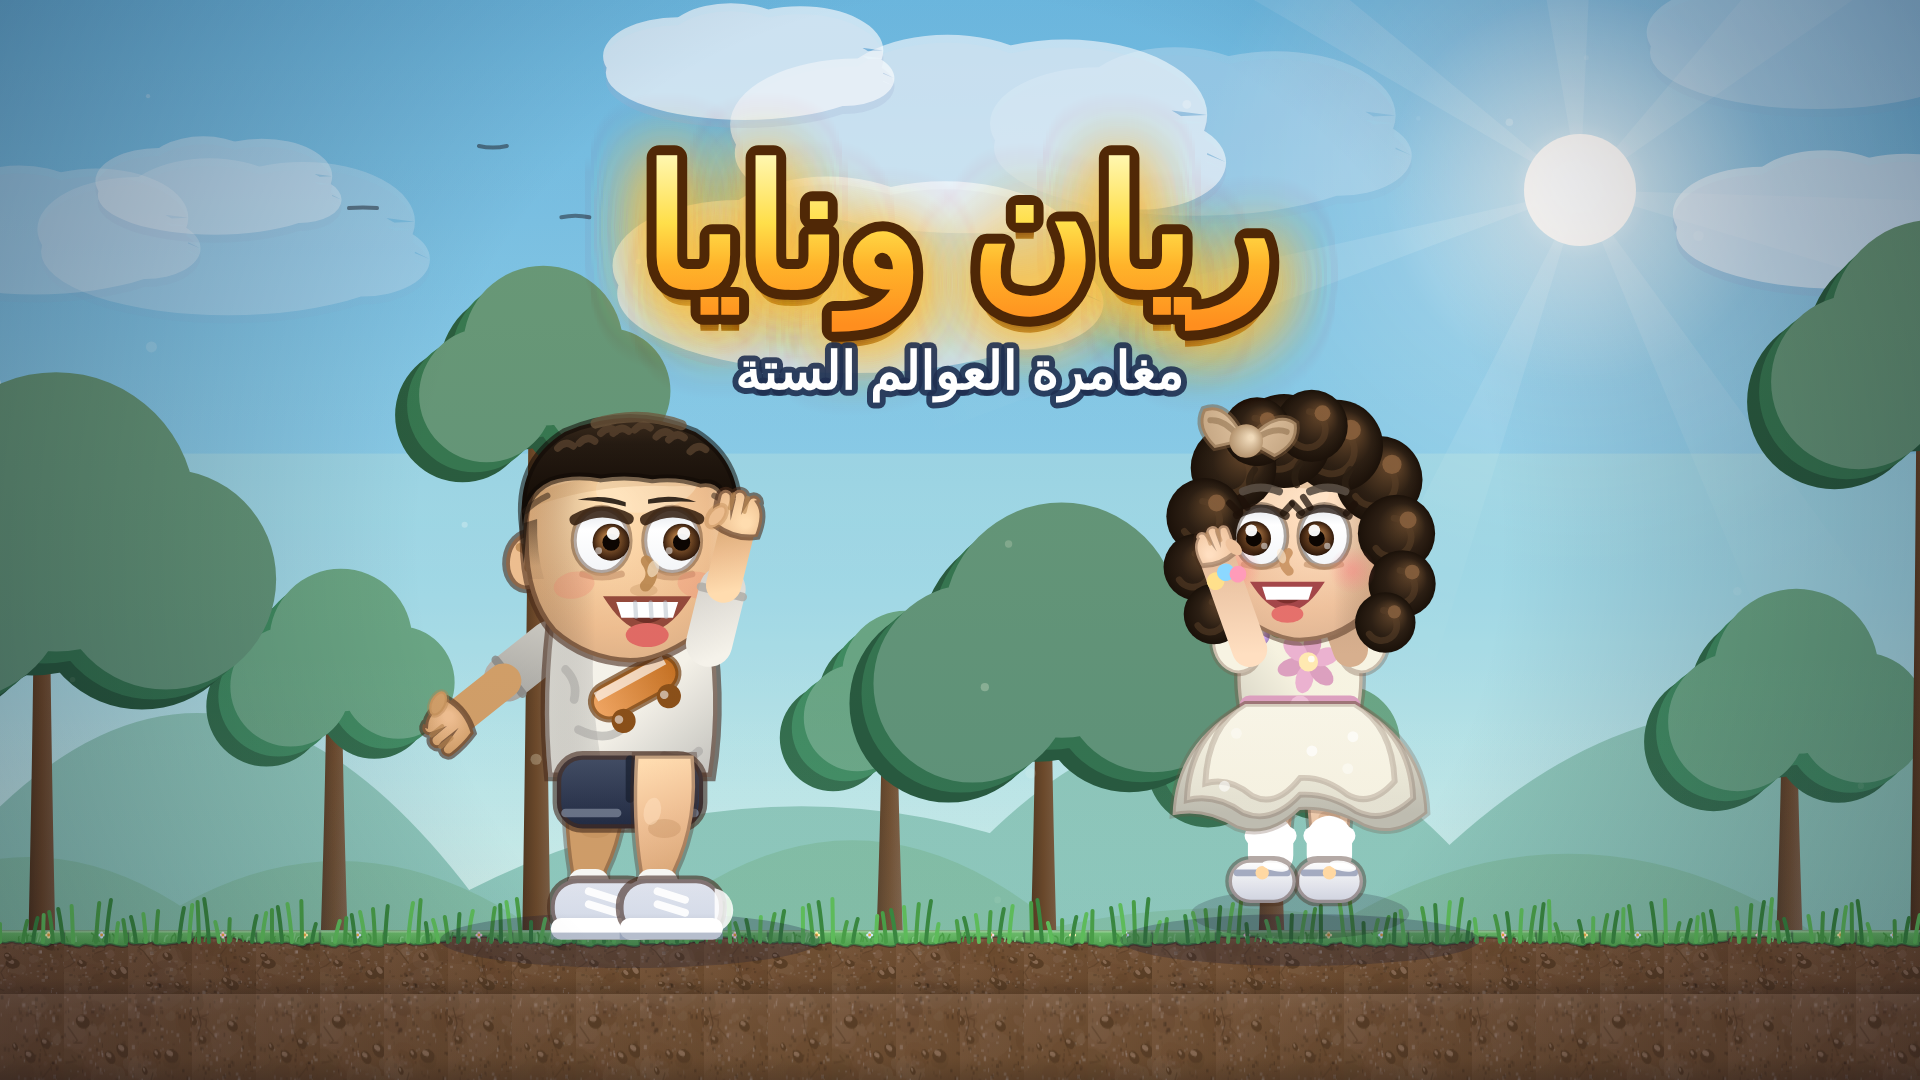
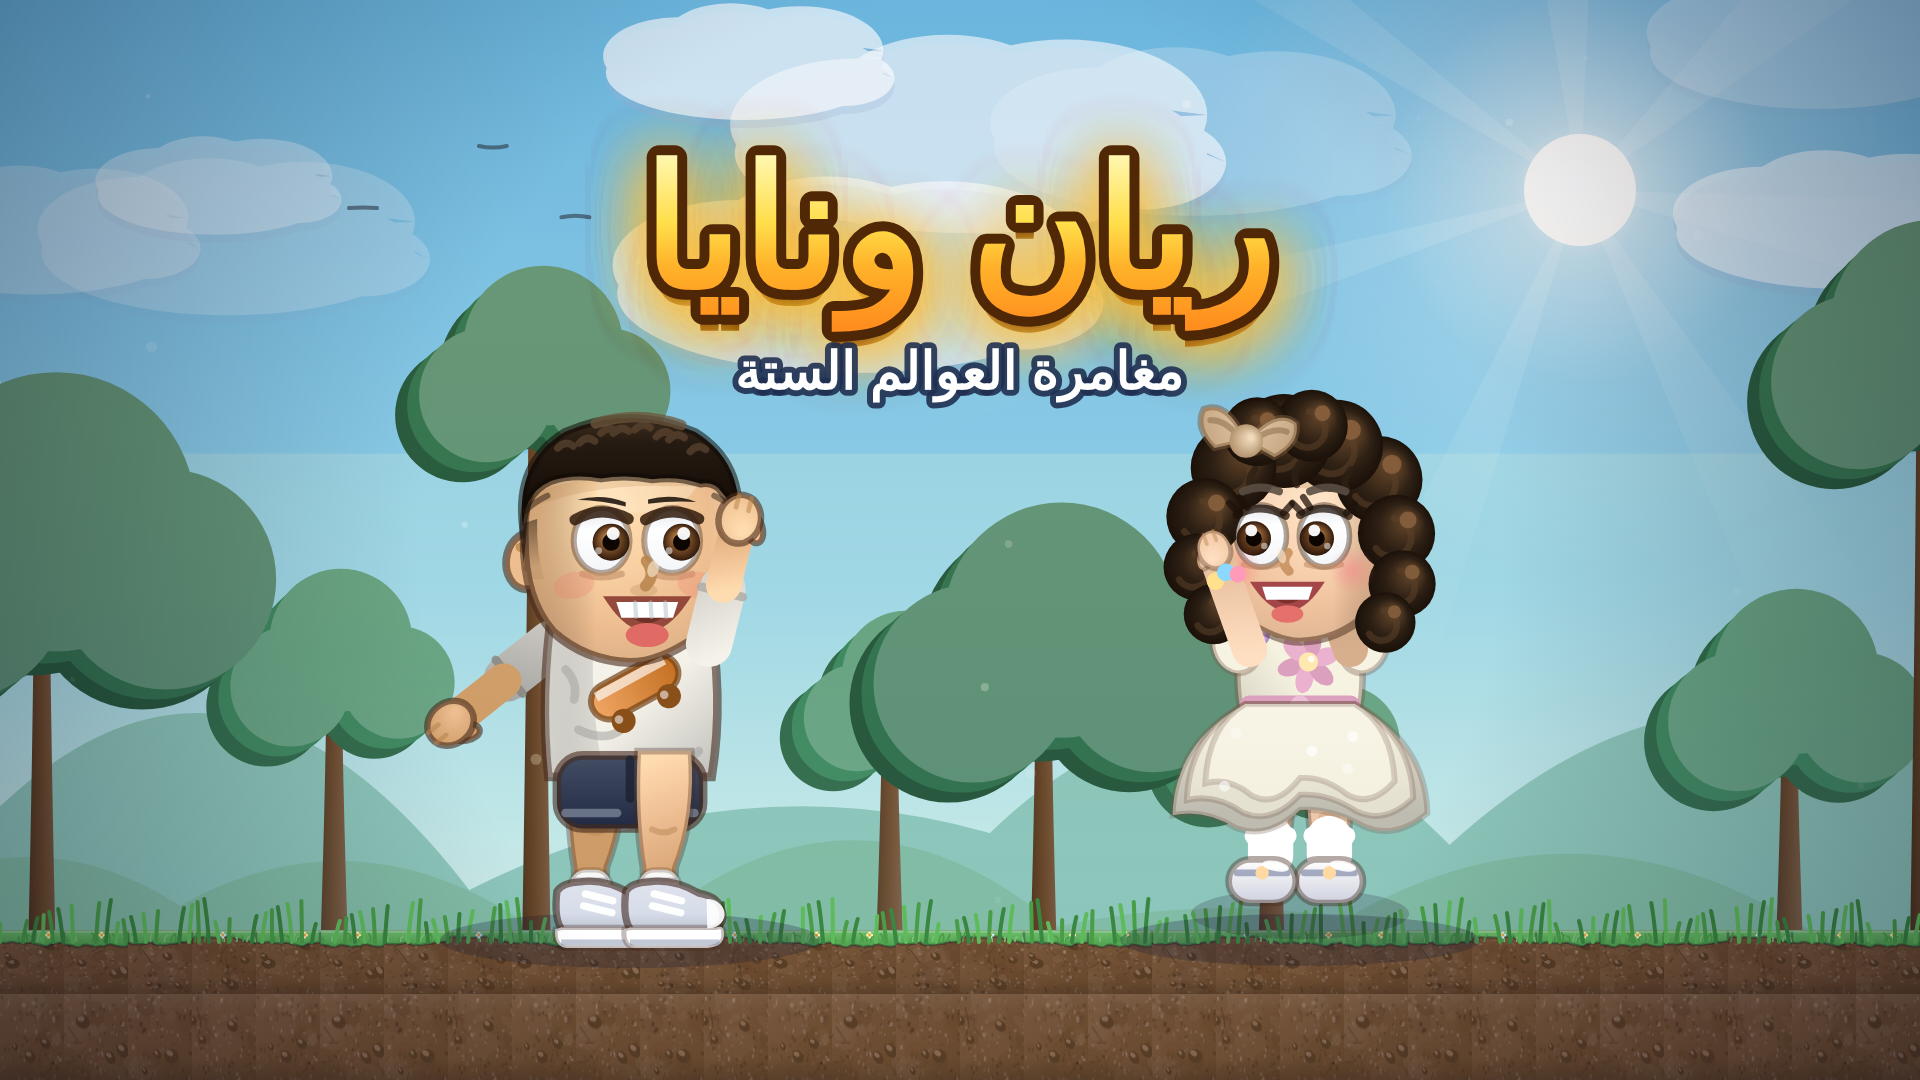
Hands and legs redesign v3: clean cartoon anatomy
- Hands: rounded mitt palms with integrated thumbs (toward the body)
  and two subtle finger creases, replacing the notched claw-like
  silhouettes; smaller and properly proportioned (both characters)
- Legs: smooth thigh-to-ankle capsule curves with a thin knee crease
  (removed the blotchy knee highlight), ankle flows into a wrapped
  sock cuff with fold line
- Sneakers rebuilt as a single sculpted silhouette: heel, rounded
  rubber toe, tongue, stitched double sole and laces, aligned to the
  ankle joint
- Naya: shaped legs and small mitt hands with matched skin gradients

Claude-Session: https://claude.ai/code/session_01WV3PCMXxFaSr6jYfzUPyqs

diff --git a/js/game/characters.js b/js/game/characters.js
@@ -234,51 +234,75 @@ window.RN = window.RN || {};
     ctx.save();
     ctx.translate(ox, oy);
     ctx.rotate(ang * 0.6);
-    const ax = ang > 0 ? 2.6 : -0.8; // موضع الكاحل
-    // ساق مدببة: فخذ أعرض ينحدر لكاحل أنحف مع بطة خفيفة
-    ctx.fillStyle = front ? skinGrad(ctx, -3, 0, 3, 16) : SKIN_SHADE;
+    const ax = ang > 0 ? 2.2 : -0.6; // موضع الكاحل
+    // ساق انسيابية: فخذ أعرض ينساب لكاحل أنحف (بلا زوايا)
+    ctx.fillStyle = front ? skinGrad(ctx, -3, 0, 3, 15) : SKIN_SHADE;
     ctx.beginPath();
-    ctx.moveTo(-3.4, -1);
-    ctx.quadraticCurveTo(-3.9, 6.5, ax - 2.1, 12.5);
-    ctx.lineTo(ax - 2.1, 15.5);
-    ctx.lineTo(ax + 2.1, 15.5);
-    ctx.lineTo(ax + 2.1, 12.5);
-    ctx.quadraticCurveTo(4.2, 6.5, 3.4, -1);
+    ctx.moveTo(-3.1, -1.5);
+    ctx.quadraticCurveTo(-3.5, 6, ax - 1.9, 12);
+    ctx.quadraticCurveTo(ax - 2.0, 14.6, ax, 14.8);
+    ctx.quadraticCurveTo(ax + 2.0, 14.6, ax + 1.9, 12);
+    ctx.quadraticCurveTo(3.7, 6, 3.1, -1.5);
     ctx.closePath();
     ctx.fill();
-    ctx.strokeStyle = 'rgba(74,44,26,0.35)'; ctx.lineWidth = 0.8;
+    ctx.strokeStyle = 'rgba(74,44,26,0.32)'; ctx.lineWidth = 0.8;
     ctx.stroke();
-    // ركبة (لمسة ظل + لمعة)
-    ctx.fillStyle = U.alpha(SKIN_DEEP, 0.28);
-    ctx.beginPath(); ctx.ellipse((ax) * 0.5 + 0.4, 7.5, 1.9, 1.1, 0, 0, 7); ctx.fill();
-    ctx.fillStyle = 'rgba(255,225,190,0.5)';
-    ctx.beginPath(); ctx.ellipse((ax) * 0.5 - 1, 5.5, 1, 1.6, 0.2, 0, 7); ctx.fill();
-    // جورب قصير بحافة مطوية
-    ctx.fillStyle = '#f6f6f2';
-    U.roundRect(ctx, ax - 2.4, 12.2, 4.8, 3.6, 1.6); ctx.fill();
-    ctx.fillStyle = '#e2e2da';
-    ctx.fillRect(ax - 2.4, 13.4, 4.8, 0.9);
-    // حذاء رياضي
+    // ثنية الركبة: خط رقيق فقط
+    ctx.strokeStyle = U.alpha(SKIN_DEEP, 0.45); ctx.lineWidth = 0.7;
+    ctx.beginPath();
+    ctx.moveTo(ax * 0.4 - 1.2, 7.6);
+    ctx.quadraticCurveTo(ax * 0.4 + 0.2, 8.3, ax * 0.4 + 1.4, 7.6);
+    ctx.stroke();
+    // جورب قصير يلتف حول الكاحل ويلتقي بالحذاء
+    ctx.fillStyle = '#f8f8f4';
+    U.roundRect(ctx, ax - 2.35, 12.3, 4.7, 3.6, 1.9); ctx.fill();
+    ctx.strokeStyle = 'rgba(74,44,26,0.22)'; ctx.lineWidth = 0.6;
+    U.roundRect(ctx, ax - 2.35, 12.3, 4.7, 3.6, 1.9); ctx.stroke();
+    ctx.strokeStyle = 'rgba(150,150,160,0.55)'; ctx.lineWidth = 0.6;
+    ctx.beginPath(); ctx.moveTo(ax - 1.8, 13.5); ctx.lineTo(ax + 1.8, 13.5); ctx.stroke();
+    // حذاء رياضي (يلتقم الكاحل)
     ctx.save();
-    ctx.translate(ang > 0 ? 3 : -1, 17);
+    ctx.translate(ax, 17);
     const shg = ctx.createLinearGradient(0, -3.5, 0, 3);
     shg.addColorStop(0, U.shade(o.shoes, 0.22));
     shg.addColorStop(0.6, o.shoes);
     shg.addColorStop(1, U.shade(o.shoes, -0.15));
     ctx.fillStyle = shg;
-    U.roundRect(ctx, -4.2, -3.6, 12, 6.6, 3.1); ctx.fill();
-    ctx.strokeStyle = LINE; ctx.lineWidth = 0.9;
-    U.roundRect(ctx, -4.2, -3.6, 12, 6.6, 3.1); ctx.stroke();
-    // نعل مزدوج
+    ctx.beginPath();
+    ctx.moveTo(-3.9, -2.2);
+    ctx.quadraticCurveTo(-4.3, 1.2, -3.2, 2.4);   // كعب
+    ctx.lineTo(5.2, 2.4);
+    ctx.quadraticCurveTo(7.6, 2.2, 7.4, 0.4);     // مقدمة مستديرة
+    ctx.quadraticCurveTo(7.1, -1.6, 4.6, -2.0);
+    ctx.quadraticCurveTo(1.6, -3.7, -1.2, -3.3);  // لسان الحذاء
+    ctx.quadraticCurveTo(-3.3, -3.2, -3.9, -2.2);
+    ctx.closePath();
+    ctx.fill();
+    ctx.strokeStyle = LINE; ctx.lineWidth = 0.85;
+    ctx.stroke();
+    // نعل أبيض مزدوج
     ctx.fillStyle = '#ffffff';
-    U.roundRect(ctx, -4.2, 0.9, 12, 2.5, 1.2); ctx.fill();
-    ctx.fillStyle = 'rgba(140,150,170,0.6)';
-    ctx.fillRect(-4.2, 2.6, 12, 0.8);
+    ctx.beginPath();
+    ctx.moveTo(-4.1, 2.2);
+    ctx.quadraticCurveTo(-4.3, 4.3, -2.6, 4.4);
+    ctx.lineTo(5.6, 4.4);
+    ctx.quadraticCurveTo(7.8, 4.2, 7.5, 2.4);
+    ctx.quadraticCurveTo(7.4, 1.7, 6.6, 2.0);
+    ctx.lineTo(-3.4, 2.0);
+    ctx.closePath();
+    ctx.fill();
+    ctx.strokeStyle = 'rgba(74,44,26,0.3)'; ctx.lineWidth = 0.6;
+    ctx.stroke();
+    ctx.fillStyle = 'rgba(140,150,170,0.5)';
+    ctx.fillRect(-3.4, 3.4, 10.4, 0.7);
     // مقدمة مطاطية + أربطة
-    ctx.fillStyle = 'rgba(255,255,255,0.85)';
-    ctx.beginPath(); ctx.arc(6.4, 0, 2.6, -1.4, 1.4); ctx.fill();
-    ctx.strokeStyle = 'rgba(255,255,255,0.9)'; ctx.lineWidth = 0.9;
-    ctx.beginPath(); ctx.moveTo(0.2, -2.2); ctx.lineTo(3.4, -1.2); ctx.moveTo(0.2, -0.7); ctx.lineTo(3.4, 0.3); ctx.stroke();
+    ctx.fillStyle = 'rgba(255,255,255,0.9)';
+    ctx.beginPath(); ctx.ellipse(5.7, 0.4, 1.9, 1.7, 0.15, -1.8, 1.5); ctx.fill();
+    ctx.strokeStyle = 'rgba(255,255,255,0.95)'; ctx.lineWidth = 0.85;
+    ctx.beginPath();
+    ctx.moveTo(-0.6, -1.9); ctx.lineTo(2.6, -1.1);
+    ctx.moveTo(-0.8, -0.5); ctx.lineTo(2.5, 0.3);
+    ctx.stroke();
     ctx.restore();
     ctx.restore();
   }
@@ -300,36 +324,30 @@ window.RN = window.RN || {};
     // ساعد ويد
     ctx.strokeStyle = front ? skinGrad(ctx, -2, 7, 2, 16) : SKIN_SHADE;
     ctx.lineWidth = 4.1; ctx.beginPath(); ctx.moveTo(0, 7); ctx.lineTo(0, 13.6); ctx.stroke();
-    // كف بأصابع (قبضة شبه مفتوحة)
-    const hg = ctx.createRadialGradient(-0.8, 14.6, 0.5, 0, 15.3, 3.2);
+    // كف كرتونية نظيفة: قفاز بيضاوي بإبهام مدمج وخطي أصابع
+    ctx.save();
+    ctx.translate(0, 14.4);
+    const thx = front ? -1.9 : 1.9; // الإبهام نحو الجسم
+    const hg = ctx.createRadialGradient(-0.7, -0.8, 0.4, 0, 0.3, 3.4);
     hg.addColorStop(0, front ? SKIN_HI : SKIN);
     hg.addColorStop(1, front ? SKIN : SKIN_SHADE);
+    // الإبهام أولًا (يندمج تحت الكف)
     ctx.fillStyle = hg;
-    // راحة اليد
-    ctx.beginPath();
-    ctx.moveTo(-2.5, 13.4);
-    ctx.quadraticCurveTo(-2.9, 16.2, -1.7, 17.3);
-    // ثلاثة أصابع (نتوءات) عند الأسفل
-    ctx.arc(-1.1, 17.15, 0.85, Math.PI * 0.9, Math.PI * 0.1, true);
-    ctx.arc(0.6, 17.35, 0.9, Math.PI * 0.95, Math.PI * 0.05, true);
-    ctx.arc(2.2, 17.0, 0.85, Math.PI, 0, true);
-    ctx.quadraticCurveTo(3.1, 15.3, 2.6, 13.5);
-    ctx.quadraticCurveTo(0, 12.4, -2.5, 13.4);
-    ctx.closePath();
-    ctx.fill();
+    ctx.beginPath(); ctx.ellipse(thx, -0.2, 1.0, 1.7, front ? -0.5 : 0.5, 0, 7); ctx.fill();
     ctx.strokeStyle = LINE; ctx.lineWidth = 0.7;
-    ctx.stroke();
-    // فواصل الأصابع
-    ctx.strokeStyle = U.alpha(SKIN_DEEP, 0.6); ctx.lineWidth = 0.55;
+    ctx.beginPath(); ctx.ellipse(thx, -0.2, 1.0, 1.7, front ? -0.5 : 0.5, 0, 7); ctx.stroke();
+    // الكف
+    ctx.fillStyle = hg;
+    ctx.beginPath(); ctx.ellipse(0, 0.5, 2.45, 2.85, 0, 0, 7); ctx.fill();
+    ctx.strokeStyle = LINE; ctx.lineWidth = 0.75;
+    ctx.beginPath(); ctx.ellipse(0, 0.5, 2.45, 2.85, 0, 0, 7); ctx.stroke();
+    // خطا أصابع قصيران من الأسفل
+    ctx.strokeStyle = U.alpha(SKIN_DEEP, 0.55); ctx.lineWidth = 0.55;
     ctx.beginPath();
-    ctx.moveTo(-0.3, 17.5); ctx.lineTo(-0.3, 15.9);
-    ctx.moveTo(1.4, 17.5); ctx.lineTo(1.4, 15.9);
+    ctx.moveTo(-0.75, 3.2); ctx.lineTo(-0.75, 1.7);
+    ctx.moveTo(0.75, 3.25); ctx.lineTo(0.75, 1.75);
     ctx.stroke();
-    // إبهام
-    ctx.fillStyle = front ? SKIN : SKIN_SHADE;
-    ctx.beginPath(); ctx.ellipse(front ? 2.7 : -2.7, 14.6, 0.9, 1.5, front ? 0.45 : -0.45, 0, 7); ctx.fill();
-    ctx.strokeStyle = U.alpha(SKIN_DEEP, 0.4); ctx.lineWidth = 0.5;
-    ctx.beginPath(); ctx.ellipse(front ? 2.7 : -2.7, 14.6, 0.9, 1.5, front ? 0.45 : -0.45, 0, 7); ctx.stroke();
+    ctx.restore();
     // شفرة الطاقة
     if (front && p.armPose === 'swing') {
       ctx.globalCompositeOperation = 'screen';
@@ -1064,27 +1082,27 @@ window.RN = window.RN || {};
     hg.addColorStop(0, front ? NAYA_SKIN_HI : NAYA_SKIN);
     hg.addColorStop(1, front ? NAYA_SKIN : U.shade(NAYA_SKIN, -0.14));
     ctx.fillStyle = hg;
-    // كف صغير بأصابع
+    // كف صغيرة نظيفة بإبهام مدمج
+    ctx.save();
+    ctx.translate(0, 12.2);
+    const thx = front ? -1.5 : 1.5;
+    const hgn = ctx.createRadialGradient(-0.6, -0.6, 0.3, 0, 0.4, 2.7);
+    hgn.addColorStop(0, front ? NAYA_SKIN_HI : NAYA_SKIN);
+    hgn.addColorStop(1, front ? NAYA_SKIN : U.shade(NAYA_SKIN, -0.14));
+    ctx.fillStyle = hgn;
+    ctx.beginPath(); ctx.ellipse(thx, -0.2, 0.8, 1.35, front ? -0.5 : 0.5, 0, 7); ctx.fill();
+    ctx.strokeStyle = 'rgba(70,42,26,0.3)'; ctx.lineWidth = 0.55;
+    ctx.beginPath(); ctx.ellipse(thx, -0.2, 0.8, 1.35, front ? -0.5 : 0.5, 0, 7); ctx.stroke();
+    ctx.fillStyle = hgn;
+    ctx.beginPath(); ctx.ellipse(0, 0.4, 1.95, 2.3, 0, 0, 7); ctx.fill();
+    ctx.strokeStyle = 'rgba(70,42,26,0.33)'; ctx.lineWidth = 0.6;
+    ctx.beginPath(); ctx.ellipse(0, 0.4, 1.95, 2.3, 0, 0, 7); ctx.stroke();
+    ctx.strokeStyle = 'rgba(190,140,95,0.5)'; ctx.lineWidth = 0.45;
     ctx.beginPath();
-    ctx.moveTo(-2.1, 11.3);
-    ctx.quadraticCurveTo(-2.5, 13.6, -1.5, 14.5);
-    ctx.arc(-0.9, 14.4, 0.7, Math.PI * 0.9, Math.PI * 0.1, true);
-    ctx.arc(0.5, 14.6, 0.75, Math.PI * 0.95, Math.PI * 0.05, true);
-    ctx.arc(1.8, 14.3, 0.7, Math.PI, 0, true);
-    ctx.quadraticCurveTo(2.6, 12.9, 2.2, 11.4);
-    ctx.quadraticCurveTo(0, 10.5, -2.1, 11.3);
-    ctx.closePath();
-    ctx.fill();
-    ctx.strokeStyle = 'rgba(70,42,26,0.35)'; ctx.lineWidth = 0.6;
+    ctx.moveTo(-0.6, 2.5); ctx.lineTo(-0.6, 1.3);
+    ctx.moveTo(0.6, 2.55); ctx.lineTo(0.6, 1.35);
     ctx.stroke();
-    ctx.strokeStyle = 'rgba(190,140,95,0.55)'; ctx.lineWidth = 0.45;
-    ctx.beginPath();
-    ctx.moveTo(-0.2, 14.7); ctx.lineTo(-0.2, 13.4);
-    ctx.moveTo(1.1, 14.7); ctx.lineTo(1.1, 13.4);
-    ctx.stroke();
-    // إبهام
-    ctx.fillStyle = front ? NAYA_SKIN : U.shade(NAYA_SKIN, -0.1);
-    ctx.beginPath(); ctx.ellipse(front ? 2.3 : -2.3, 12.1, 0.7, 1.2, front ? 0.45 : -0.45, 0, 7); ctx.fill();
+    ctx.restore();
     // سوار خرز
     ctx.fillStyle = '#ffe08a';
     ctx.beginPath(); ctx.arc(-1.1, 9, 1.05, 0, 7); ctx.fill();
